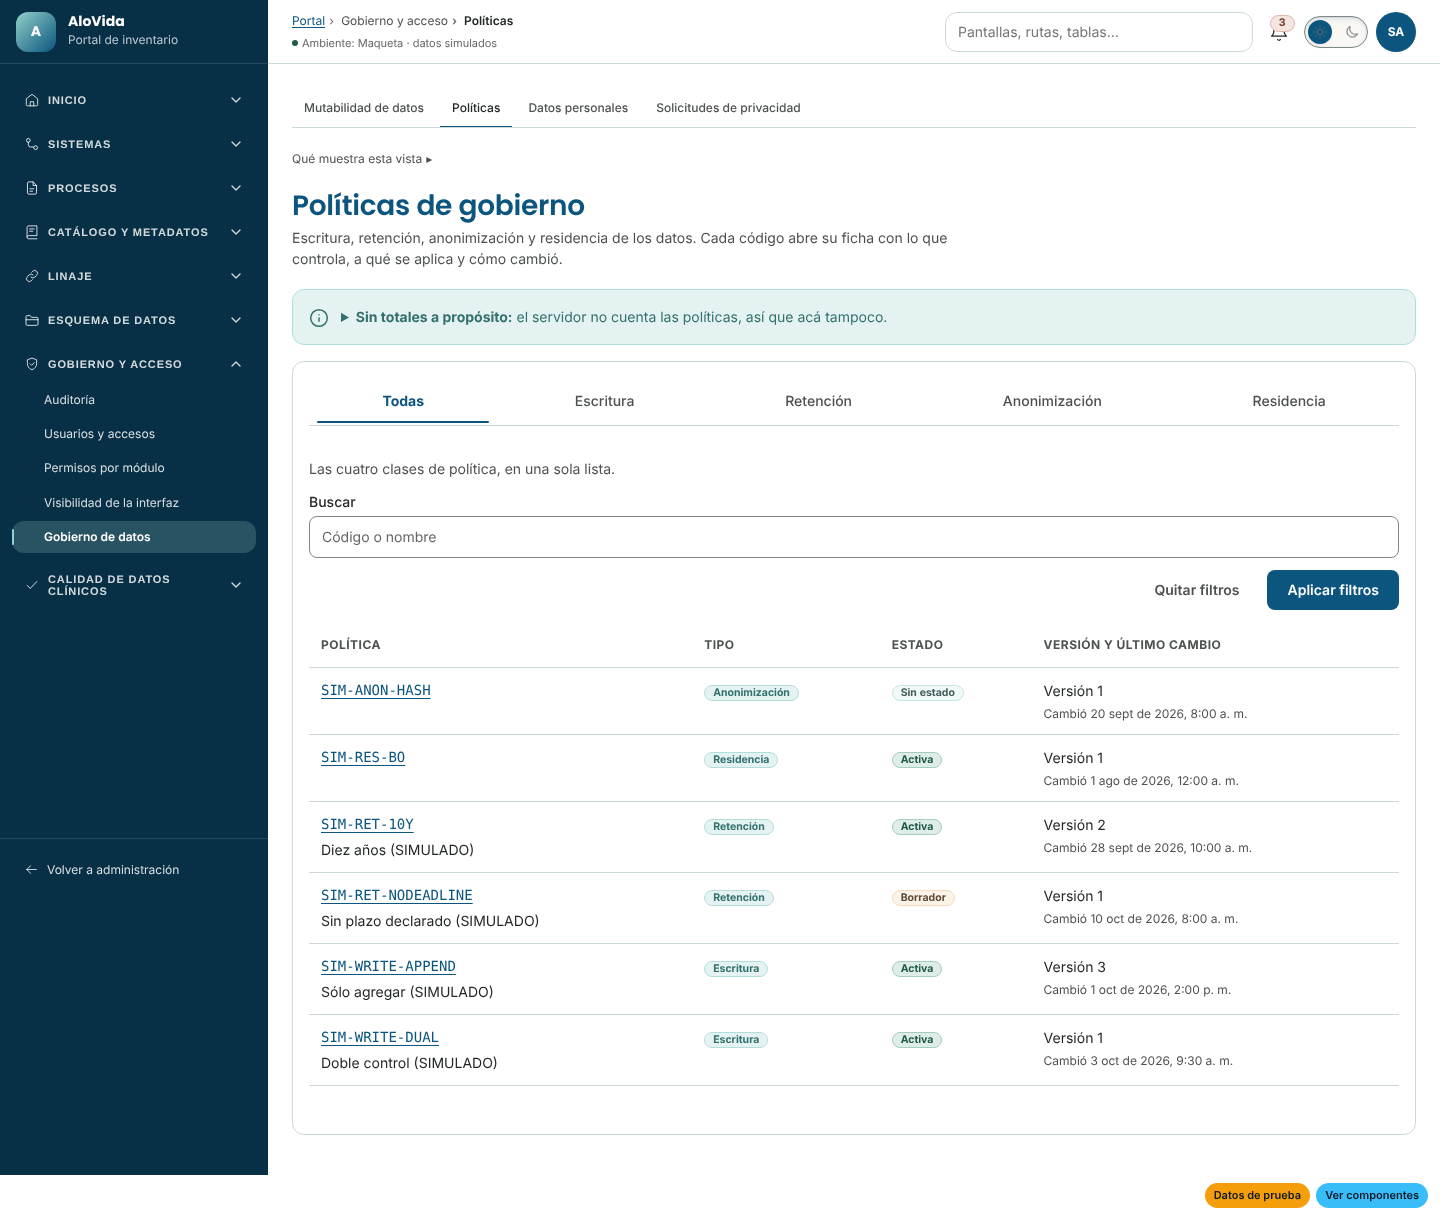
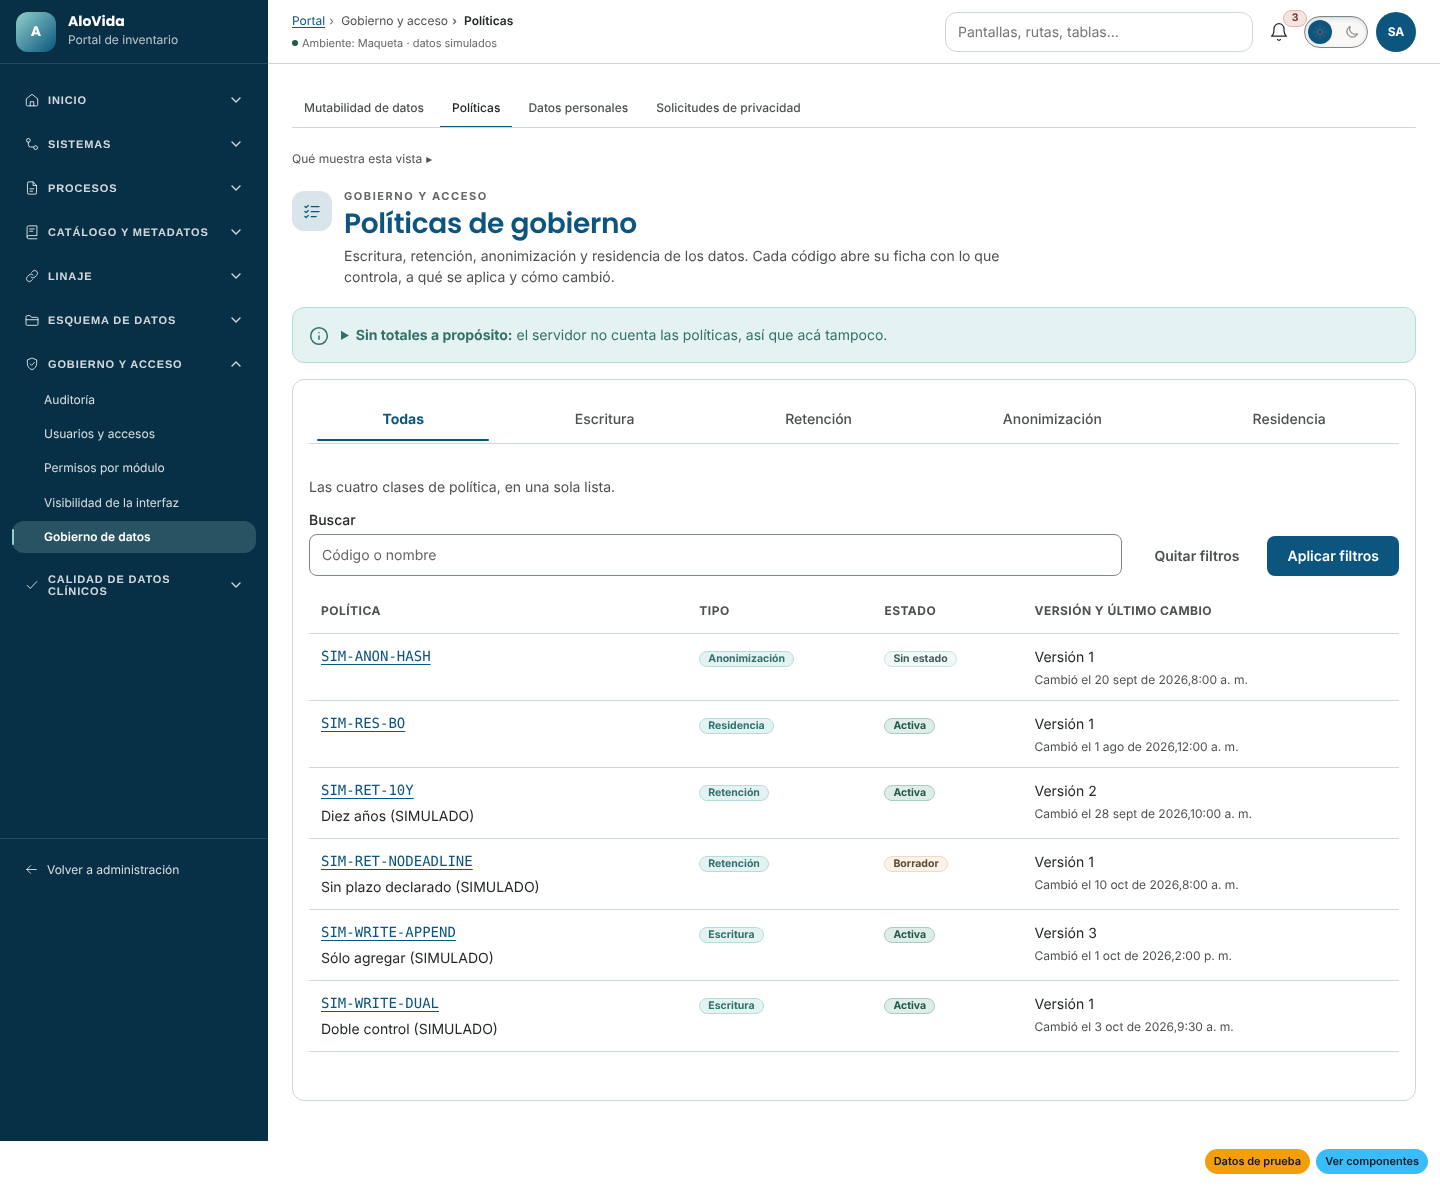
fix(portal): políticas — fecha y hora sin partirse y versión alineada con el resto de la celda; ficha recapturada (revisión visual 1)
Claude-Session: https://claude.ai/code/session_015srVoda962hL6gd5RrH9vw

diff --git a/src/app/features/admin/portal/governance/policies/policies-page.ts b/src/app/features/admin/portal/governance/policies/policies-page.ts
@@ -31,7 +31,7 @@ import { portalUrl } from '../../portal-nav';
 import { pagedList } from '../../support/paged-list';
 import { patchQuery, queryFilters, queryParamsSignal } from '../../support/route-query';
 import { FilterForm, type FilterField } from '../filter-form';
-import { dateTime } from '../governance-labels';
+import { dateOnly, timeOnly } from '../governance-labels';
 import {
   POLICY_TYPE_INFO,
   POLICY_URL_KEYS,
@@ -66,7 +66,8 @@ export class PoliciesPage {
   protected readonly values = queryFilters(queryParamsSignal(this.route), POLICY_URL_KEYS);
   protected readonly type = policyType;
   protected readonly state = policyState;
-  protected readonly when = dateTime;
+  protected readonly day = dateOnly;
+  protected readonly hour = timeOnly;
 
   /** El tipo se elige con las pestañas (viven en la URL como `type`); el buscador queda en la fila. */
   protected readonly fields: readonly FilterField[] = [

diff --git a/src/app/features/admin/portal/governance/policies/policies-page.html b/src/app/features/admin/portal/governance/policies/policies-page.html
@@ -83,10 +83,17 @@
 </ng-template>
 
 <ng-template #versionCell let-row>
-  <div class="policies__cell">
-    <span>Versión {{ row.version }}</span>
-    <span class="policies__secondary">
-      {{ row.updatedAt ? 'Cambió ' + when(row.updatedAt) : 'Sin fecha de cambio' }}
-    </span>
-  </div>
+  <span class="policies__version">
+    <span class="policies__nowrap">Versión {{ row.version }}</span>
+    @if (row.updatedAt) {
+      <span class="policies__secondary">
+        <span class="policies__nowrap">Cambió el {{ day(row.updatedAt) }},</span>&ngsp;<span
+          class="policies__nowrap"
+          >{{ hour(row.updatedAt) }}</span
+        >
+      </span>
+    } @else {
+      <span class="policies__secondary">Sin fecha de cambio</span>
+    }
+  </span>
 </ng-template>

diff --git a/src/app/features/admin/portal/governance/policies/policies-page.css b/src/app/features/admin/portal/governance/policies/policies-page.css
@@ -67,3 +67,15 @@
   line-height: var(--lh-caption);
   color: var(--text-secondary);
 }
+
+/* Versión y fecha: cada una en su renglón, alineadas como el resto de la celda y sin partirse. */
+.policies__version {
+  display: inline-flex;
+  flex-direction: column;
+  gap: var(--sp-1);
+  text-align: inherit;
+}
+
+.policies__nowrap {
+  white-space: nowrap;
+}
